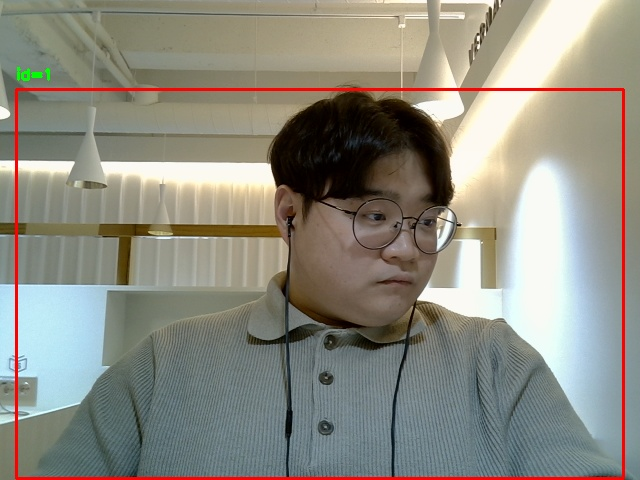
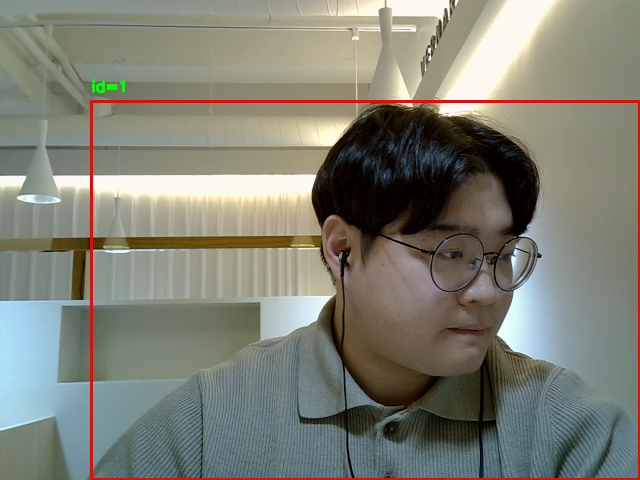
finish first study

diff --git a/03117_bae/personal_project/week_6/minsu.py b/03117_bae/personal_project/week_6/minsu.py
@@ -1,0 +1,60 @@
+import seaborn as sns
+import matplotlib.pyplot as plt
+import numpy as np
+from scipy.optimize import minimize
+from scipy.stats import linregress
+import statsmodels.api as sm
+import pandas as pd
+
+# 1. Seaborn에서 제공하는 'tips' 데이터셋 불러오기
+tips = sns.load_dataset('tips')
+
+# 2. total_bill과 tip의 관계 분석 및 선형 방정식 세우기
+slope, intercept, r_value, p_value, std_err = linregress(tips['total_bill'], tips['tip'])
+linear_eq = f"tip = {slope:.4f} * total_bill + {intercept:.4f}"
+
+# 3. SciPy를 사용하여 선형 방정식 풀기 (X 값으로 특정한 total_bill에 대한 tip 예측)
+def predict_tip(total_bill):
+    return slope * total_bill + intercept
+
+# 4. 팁을 최대로 받을 수 있는 total_bill 금액 찾기 (최적화 문제 설정 및 해결)
+def negative_tip(total_bill):
+    return -predict_tip(total_bill)
+
+result = minimize(negative_tip, x0=np.mean(tips['total_bill']), bounds=[(min(tips['total_bill']), max(tips['total_bill']))])
+optimal_total_bill = result.x[0]
+optimal_tip = -result.fun
+
+# 5. 데이터 분포 시각화
+plt.figure(figsize=(10, 6))
+sns.scatterplot(x=tips['total_bill'], y=tips['tip'], alpha=0.6, label="Actual Data")
+plt.plot(tips['total_bill'], predict_tip(tips['total_bill']), color='red', label='Regression Line')
+plt.scatter(optimal_total_bill, optimal_tip, color='green', s=100, label="Optimal Total Bill")
+plt.xlabel('Total Bill ($)')
+plt.ylabel('Tip ($)')
+plt.title('Total Bill vs Tip Regression Analysis')
+plt.legend()
+plt.show()
+
+# statsmodels를 활용한 회귀 분석
+X = sm.add_constant(tips['total_bill'])  # 상수 추가
+model = sm.OLS(tips['tip'], X).fit()
+regression_summary = model.summary()
+
+# 데이터프레임으로 정리
+results_df = pd.DataFrame({
+    'Linear Equation': [linear_eq],
+    'R-squared': [r_value ** 2],
+    'Optimal Total Bill': [optimal_total_bill],
+    'Predicted Maximum Tip': [optimal_tip]
+})
+
+# 결과 표시
+print(results_df)
+
+'''
+선형 방정식: \text{tip} = 0.1270 \times \text{total_bill} + 0.4436
+결정계수 (R-squared): 0.6398 (즉, total_bill이 tip의 변동을 약 64% 설명함)
+팁을 최대로 받을 수 있는 총 금액 (Optimal Total Bill): 35.26달러
+예측된 최대 팁 금액: 4.92달러
+'''

diff --git a/03117_bae/personal_project/week_6/seok.py b/03117_bae/personal_project/week_6/seok.py
@@ -1,0 +1,45 @@
+def solution(board):
+    answer = 1
+
+    board_value = [i for li in board for i in li]
+    O_count = board_value.count('O')
+    X_count = board_value.count('X') 
+
+    # 선공은 O, 빈값도 가능(X만 존재하면 안된다)
+    if (set(board_value) == {"X"}) or (set(board_value)=={".", "X"}):
+        answer = 0
+
+    # O 의 개수는 X와 동일하거나 1개 많아야한다.
+    temp_value = O_count - X_count
+    if temp_value not in [0,1]:
+        answer = 0
+
+    # O or X가 규칙에 맞는 3개면 게임이 정상적으로 종료 되어야 한다.
+    if game_over(board, "O"):
+        if temp_value != 1:
+            answer = 0
+        else:
+            if game_over(board, "X"):
+                answer = 0
+    elif game_over(board, "X"):
+        if temp_value != 0:
+            answer = 0
+    else:
+        ("Not over")
+    return answer
+
+# O의 승리여부를 먼저 탐색해야한다.(player 변수 추가)
+def game_over(board, player):
+    for i in range(3):
+        # 가로 확인
+        if board[i][0] == board[i][1] == board[i][2] == player:
+            return True
+        # 세로 확인
+        elif board[0][i] == board[1][i] == board[2][i] == player:
+            return True
+    # 대각선 확인
+    if board[0][0] == board[1][1] == board[2][2] == player:
+        return True
+    elif board[0][2] == board[1][1] == board[2][0] == player:
+        return True
+    return False

diff --git a/03117_bae/personal_project/week_6/ji.py b/03117_bae/personal_project/week_6/ji.py
@@ -3,8 +3,24 @@
 # 마지막에 한번에 이용 정지 하면저 정지 메일 발송
 
 def solution(id_list, report, k):
-    answer = []
-    return answer
+    check_email = {name: 0 for name in id_list}
+    get_renum = {name: 0 for name in id_list}
+    report_name = {name: [] for name in id_list}
+
+    report_set = set(report)
+
+    for i in report_set:
+        re_name, get_re = i.split(' ')
+        report_name[re_name].append(get_re)
+        get_renum[get_re] += 1
+
+    for name, count in get_renum.items():
+        if count >= k:
+            for user, check_email_value in report_name.items():
+                if name in check_email_value:
+                    check_email[user] += 1
+
+    return list(check_email.values())
 
 
-solution(["muzi", "frodo", "apeach", "neo"], ["muzi frodo","apeach frodo","frodo neo","muzi neo","apeach muzi"], 2)
+print(solution(["muzi", "frodo", "apeach", "neo"], ["muzi frodo","apeach frodo","frodo neo","muzi neo","apeach muzi"], 2))

diff --git a/03117_bae/src/final_CCTV/client.py b/03117_bae/src/final_CCTV/client.py
@@ -1,0 +1,23 @@
+import requests
+
+def fetch_video_stream(url):
+    """
+    Fetch the video stream from the server without visualization.
+    """
+    stream = requests.get(url, stream=True)
+
+    if stream.status_code != 200:
+        print("Failed to connect to the video stream.")
+        return
+
+    for chunk in stream.iter_content(chunk_size=1024):
+        if chunk:
+            # Process the video data as needed
+            # print(f"Received {len(chunk)} bytes of video data.")
+            pass
+
+if __name__ == "__main__":
+    SERVER_URL = "http://192.168.0.9:8000" 
+
+    print("Starting video stream fetch...")
+    fetch_video_stream(f"{SERVER_URL}/video_feed")

diff --git a/03117_bae/src/final_CCTV/client_cor.py b/03117_bae/src/final_CCTV/client_cor.py
@@ -4,7 +4,7 @@ import requests
 import time
 
 def send_webcam():
-    url = "http://127.0.0.1:8000/track_objects"
+    url = "http://192.168.0.9:8000/track_objects"
     cap = cv2.VideoCapture(0)
     while cap.isOpened():
         ret, frame = cap.read()

diff --git a/03117_bae/personal_project/week_6/jw.py b/03117_bae/personal_project/week_6/jw.py
@@ -1,0 +1,2 @@
+def solution(n, left, right):
+    return [max((i//n)+1, (i%n)+1) for i in range(left, right+1)]
